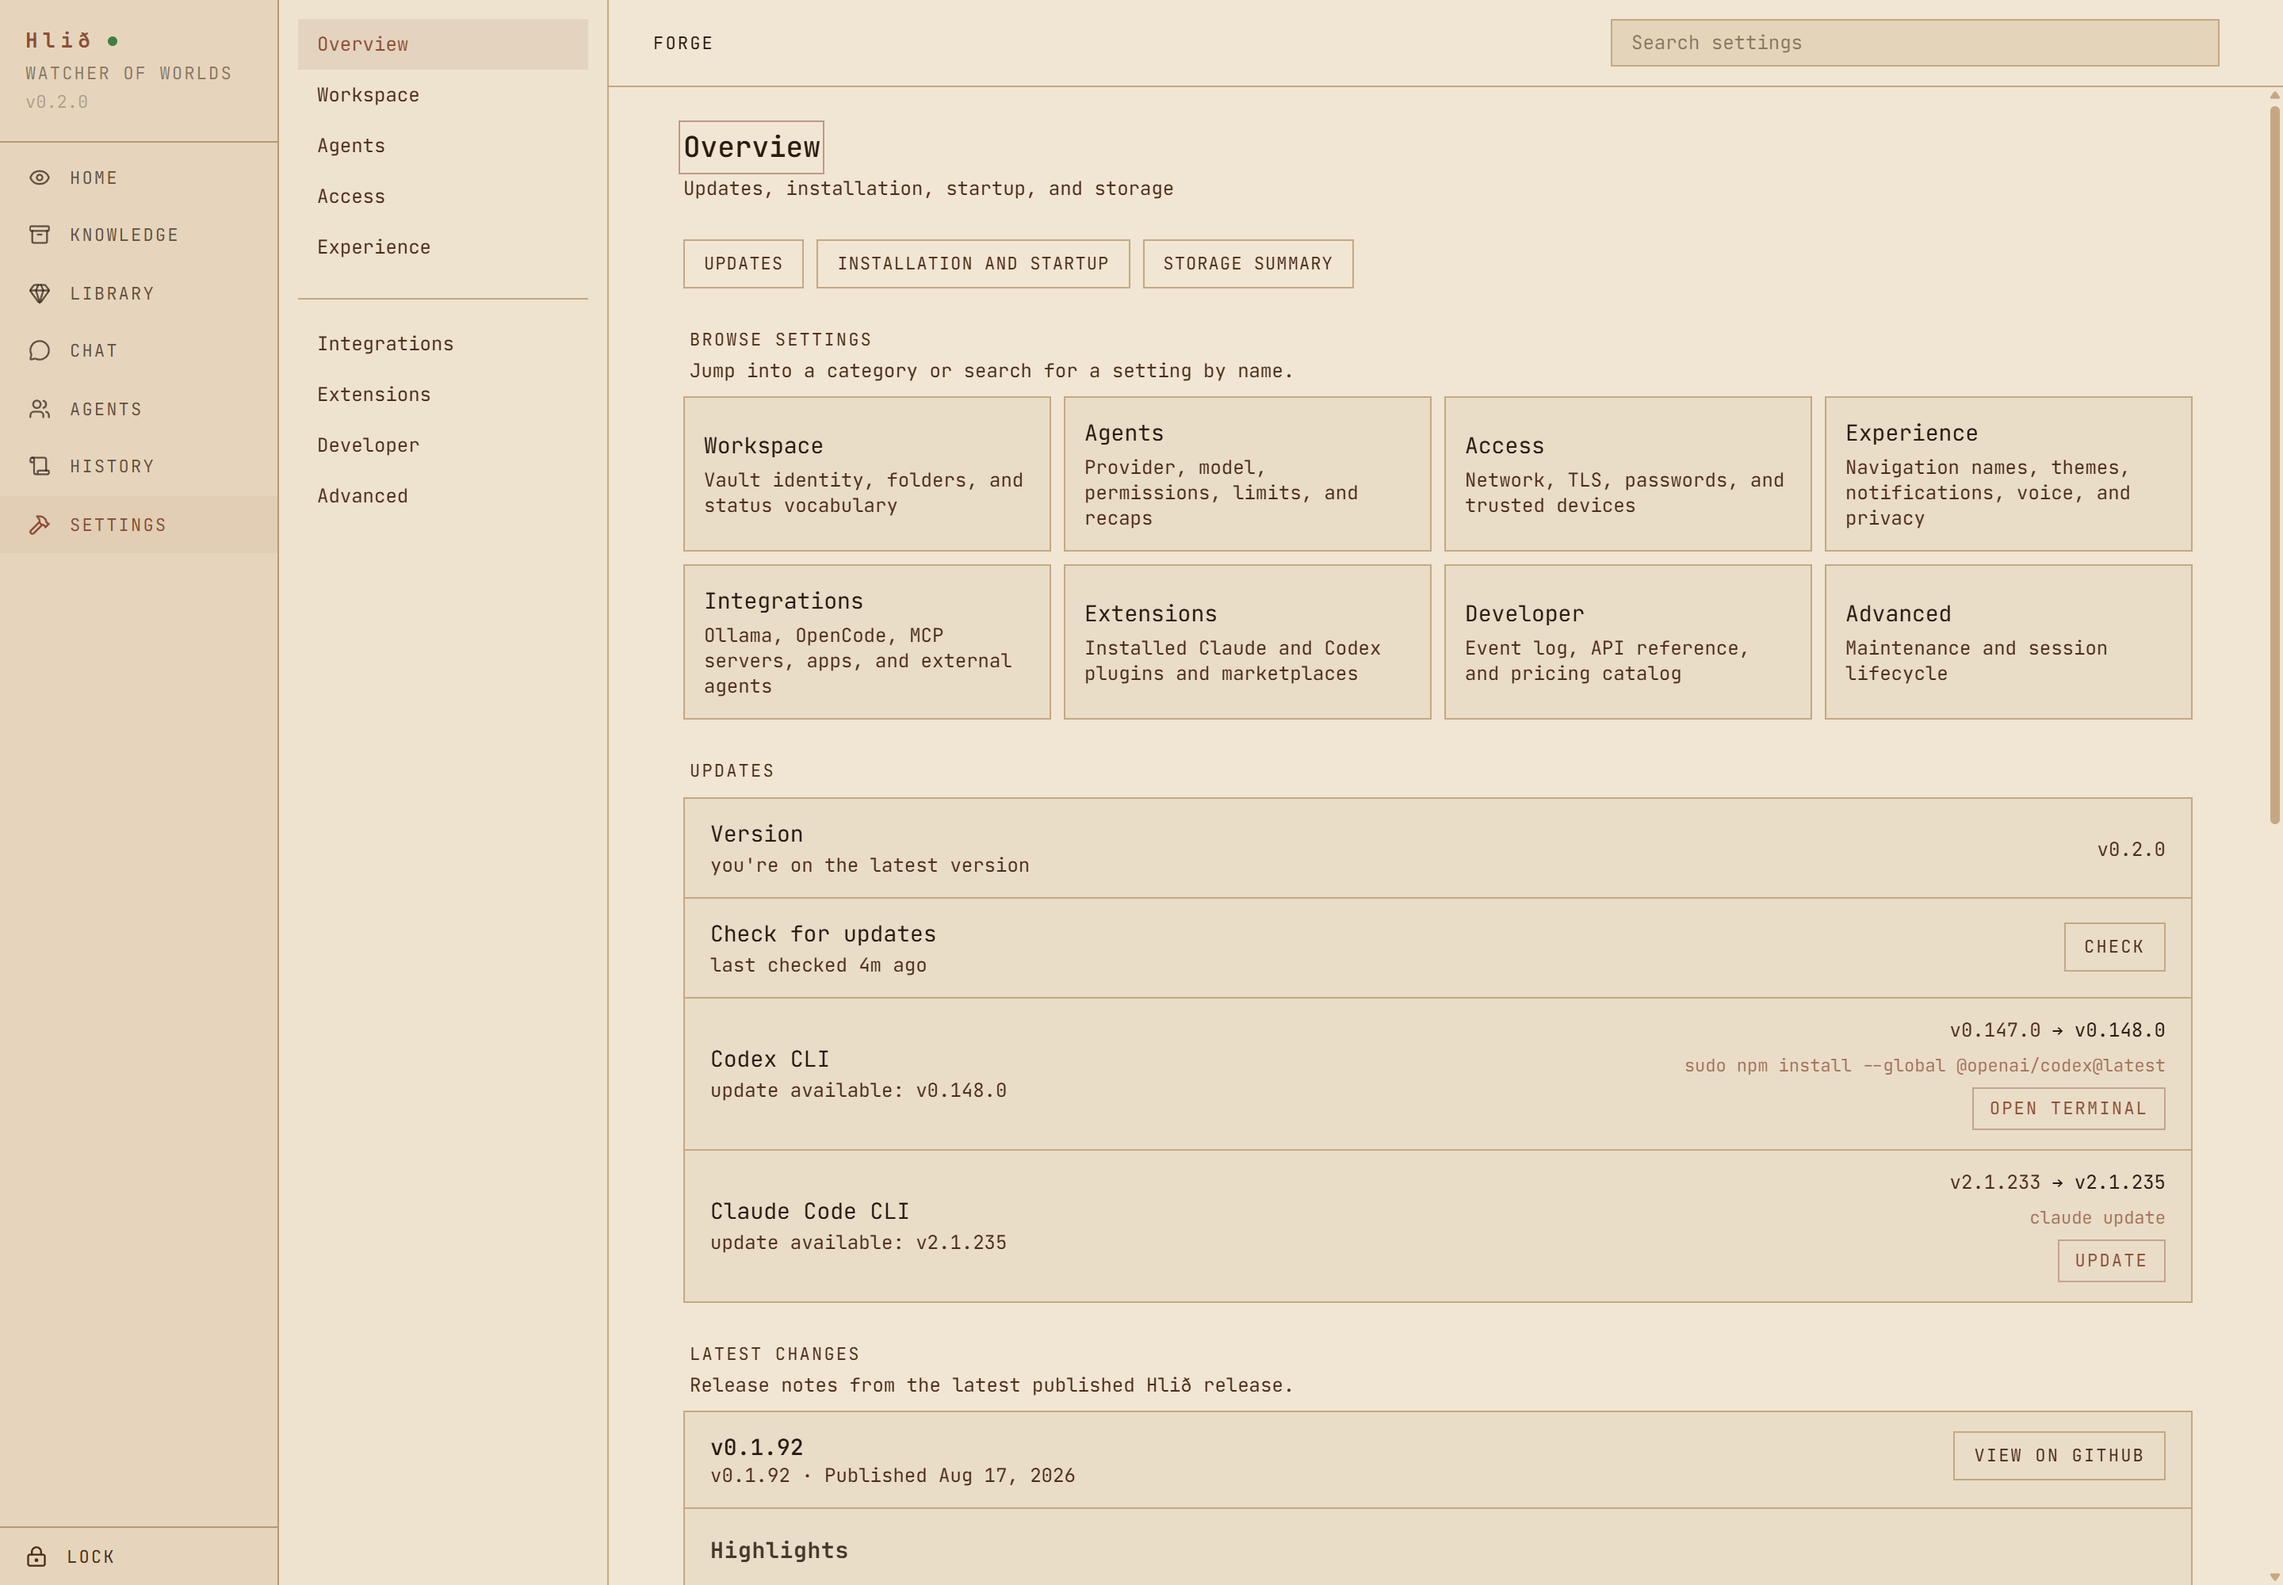
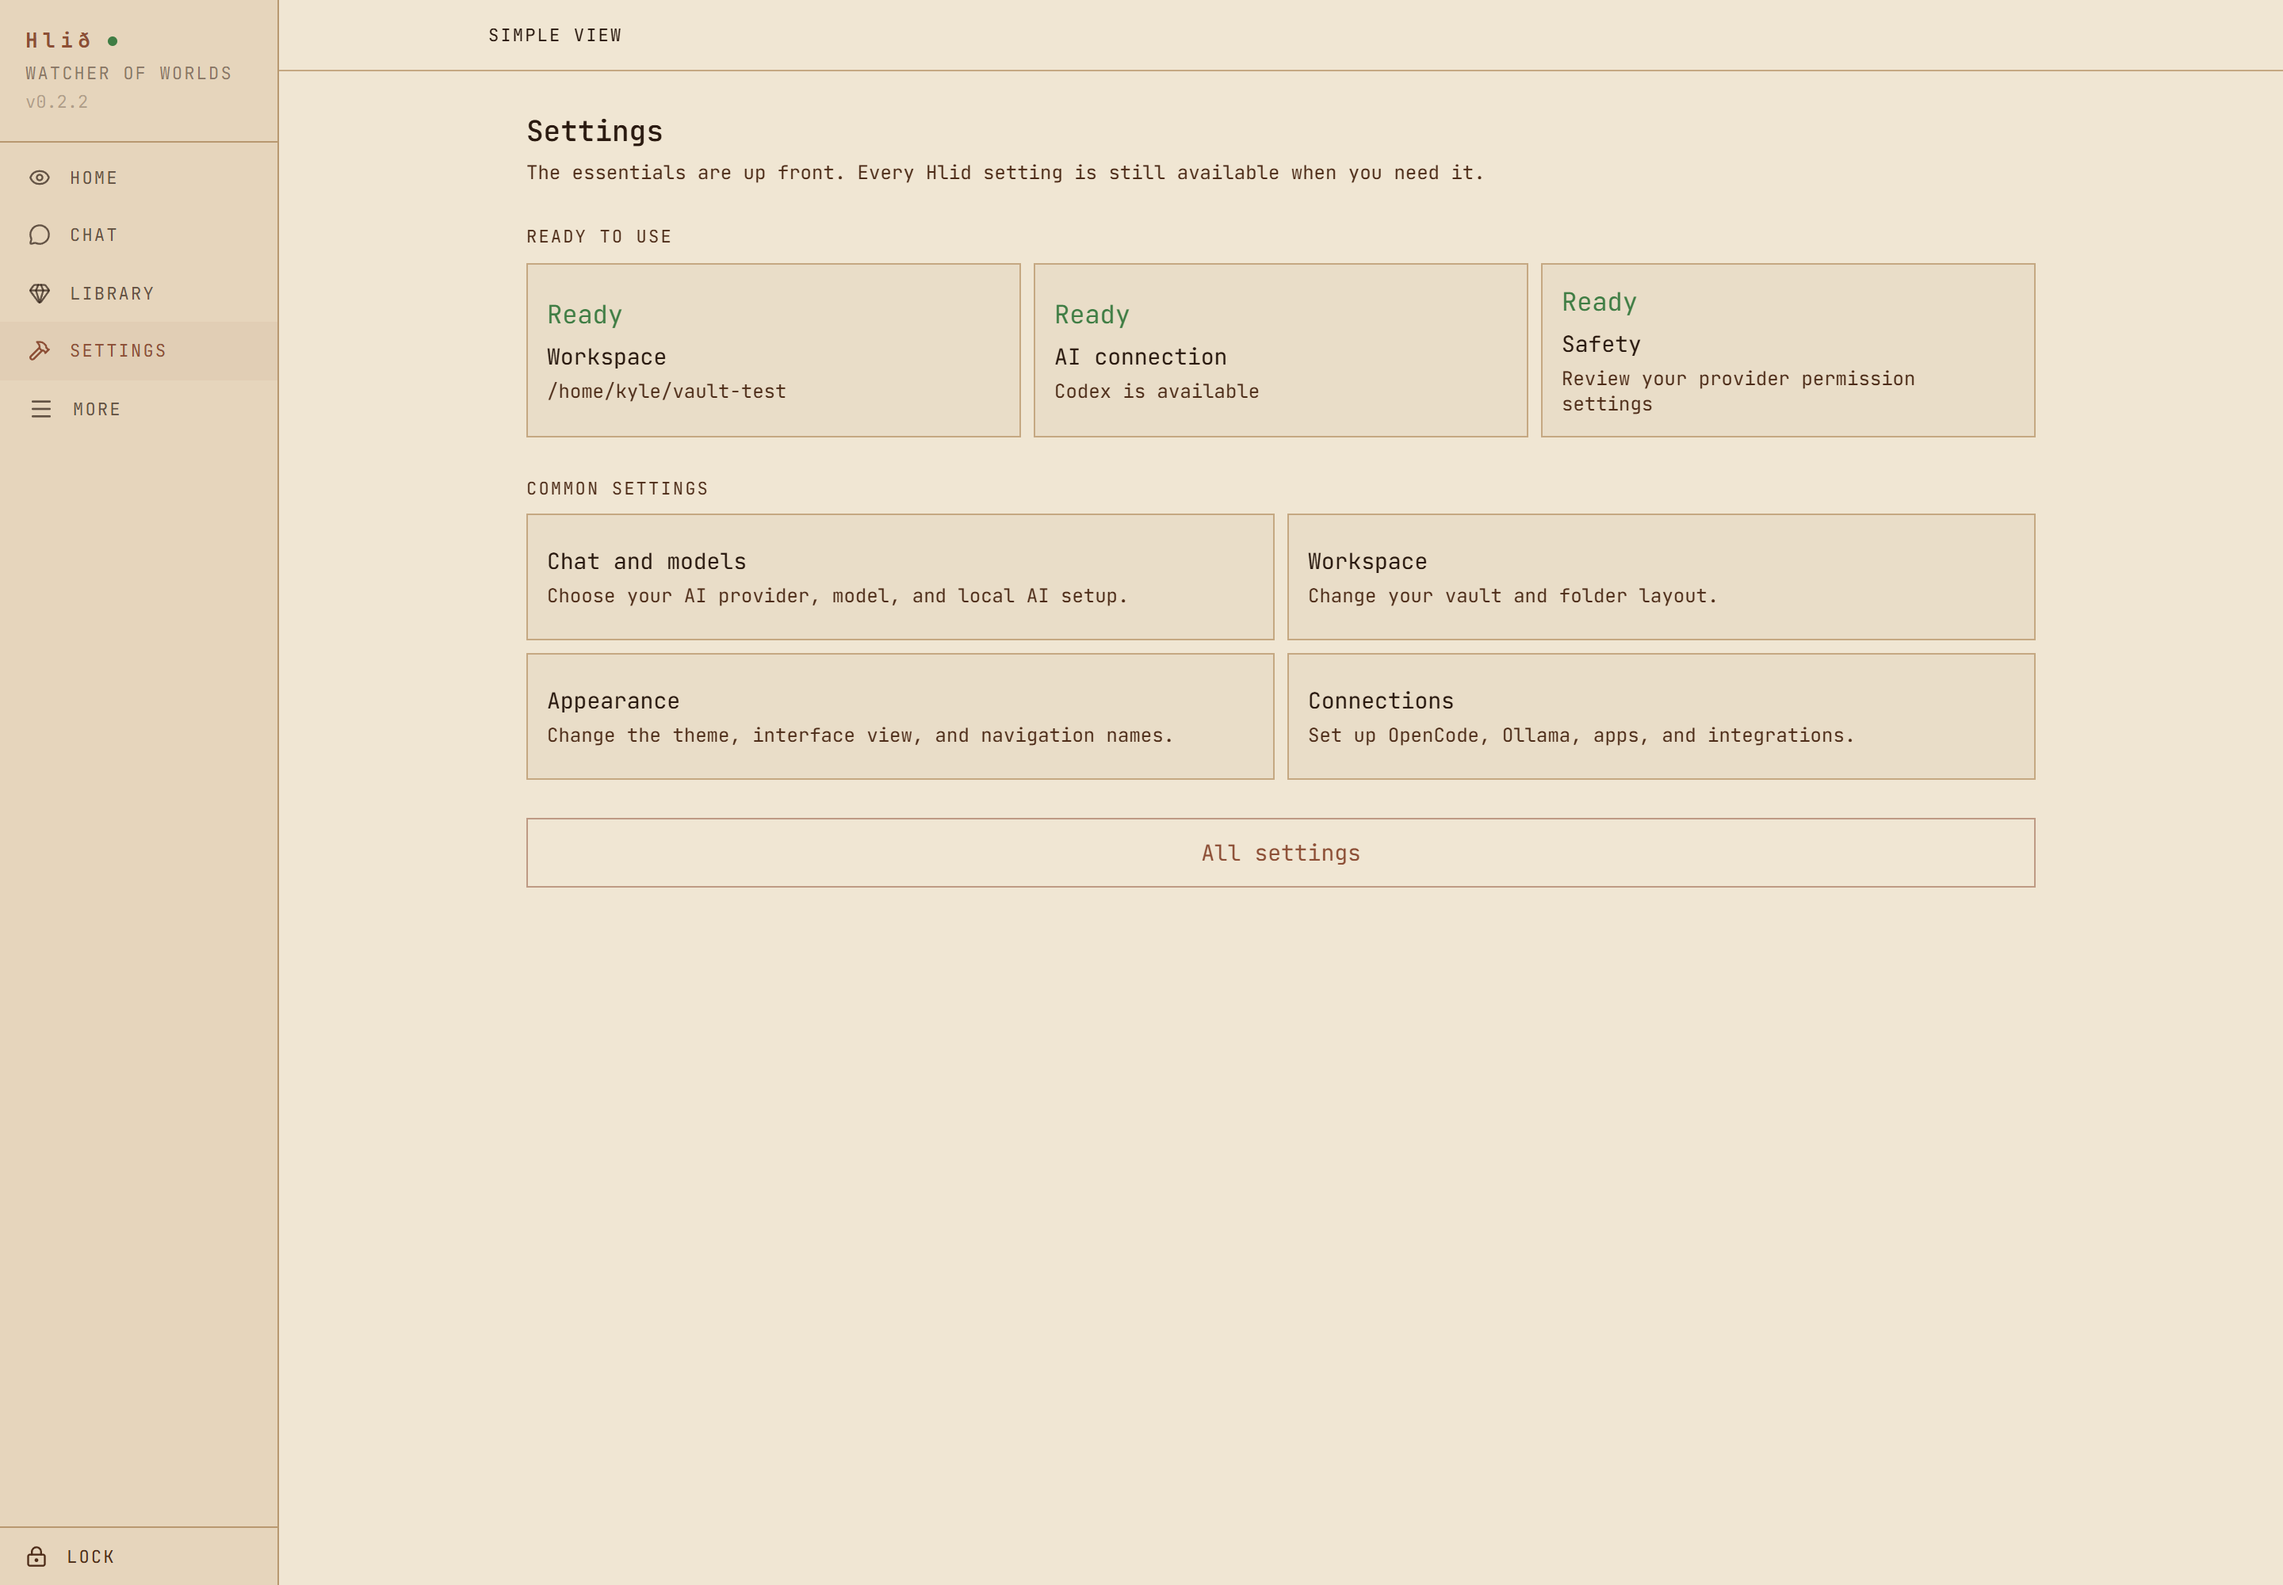
docs: prepare v0.2.2 release
## Hlid 0.2.2

Simple view keeps Home, Chat, Library, and Settings up front while the full Hlid toolset stays one click away.

- Add Guided and Custom first-start paths, including a safe starter workspace option.
- Add Simple and Full navigation with a compact More menu.
- Give Simple Forge a readiness page and shortcuts for common setup.
- Add a reviewed local AI setup checklist without bypassing existing confirmations.
- Refresh the README, user guide, and Forge screenshot for the new experience.

diff --git a/docs/user-guide.md b/docs/user-guide.md
@@ -34,24 +34,28 @@ devices can sign in over the `HTTPS` endpoint. A browser stays trusted for 30
 days unless you lock `Hlið`, change the password, or revoke every device in
 `Forge`.
 
-![First-run Structure step with detected vault folders](images/first-run-vault-setup.png)
+![First-run Custom setup structure step](images/first-run-vault-setup.png)
 
-*Pick the local `Obsidian` vault, then make sure the detected structure actually matches it.*
+*Custom setup keeps the full vault structure editor when you want every choice.*
 
 ## Connect a vault
 
-The first-run wizard is five small steps:
+The first screen gives you two paths:
 
-1. **Welcome** introduces the setup.
-2. **Vault** picks an existing local `Obsidian` vault. Hidden folders stay out
-   of the folder picker.
-3. **Structure** detects a `PARA` or wiki-style layout and fills in the folders
-   it recognizes. Check the vault name, folder mappings, available default
-   provider, that provider's permission mode, and the theme. Empty optional
-   mappings are fine.
-4. **Primer** explains the page names and how `Hlið`, the vault, and its skills
-   fit together.
-5. **Done** opens the app.
+- **Guided setup** keeps the everyday choices up front and starts the app in
+  Simple view. Create a new **Hlid Starter** workspace or connect an existing
+  local `Obsidian` vault, choose whether you are using local AI, an existing
+  account, or setting that up later, then pick a plain-language safety level.
+  The final screen can take you straight into `Raven` for a test chat.
+- **Custom setup** keeps the full structure editor. It detects a `PARA` or
+  wiki-style layout and fills in the folders it recognizes, then lets you check
+  the vault name, mappings, default provider, provider-native permission mode,
+  and theme. It starts in Full view.
+
+The starter path creates a new `Hlid Starter` folder under the parent you pick.
+It adds empty `PARA` folders, `_munin` skill and memory folders, and one welcome
+note. Existing folders and files are never replaced. If setup stops halfway
+through, `Hlið` can resume only a starter folder carrying its own marker.
 
 The wizard writes `hlid.config.toml` beside the installed executable. You can
 change the same settings later under **FORGE → Workspace**. If the vault gets
@@ -231,17 +235,17 @@ Uploads can stay temporary for one session or become managed vault attachments.
 
 ## The pages
 
-The main navigation defaults to **Home**, **Knowledge**, **Library**, **Chat**,
-**Agents**, **History**, and **Settings**. Hlið's canonical page names remain
-**Watch**, **Vault**, **Relics**, **Raven**, **Einherjar**, **Ledger**, and
-**Forge**. I'll start with the two places that launch and supervise work, then
-get into the browsers and settings around them.
+Simple view keeps **Home**, **Chat**, **Library**, and **Settings** visible, with
+**More** holding Knowledge, Agents, and History. Full view puts all seven
+destinations in the navigation. Hlið's canonical page names remain **Watch**,
+**Vault**, **Relics**, **Raven**, **Einherjar**, **Ledger**, and **Forge**. No
+route or tool disappears in Simple view, it is just less stuff staring at you.
 
-**Settings → Experience → Navigation names** can switch the menu to Hlið's
-canonical names or set a custom name for any menu item. This changes only the
-visible desktop and mobile navigation labels. Routes, icons, page headings, and
-Hlið's underlying terminology do not change, and an aliased link keeps its Hlið
-name in its tooltip and accessible label.
+**Settings → Experience → UI** switches between Simple and Full view.
+**Navigation names** can use Hlið's canonical names or set a custom name for any
+menu item. These are presentation choices only. Routes, icons, page headings,
+provider permissions, and Hlið's underlying terminology do not change, and an
+aliased link keeps its Hlið name in its tooltip and accessible label.
 
 ### Watch
 
@@ -650,11 +654,17 @@ not configured for that entry stay hidden.
 
 ### Forge
 
-![Forge overview and category navigation](images/forge-overview.png)
+![Forge Simple view readiness and common settings](images/forge-overview.png)
 
-*`Forge` groups settings by what you are trying to change, not by whichever config object owns it.*
+*Simple view puts readiness and the common stuff first. The full category browser is one click away.*
 
-**FORGE** keeps the settings in these categories:
+In Simple view, **Forge** opens with workspace, AI connection, and safety
+readiness, followed by shortcuts for chat and models, workspace, appearance,
+and connections. **All settings** opens the existing category browser. A direct
+link to an advanced category still goes straight there, because Simple view
+does not gate routes.
+
+Full view, or **All settings**, keeps the settings in these categories:
 
 - **Overview** shows `Hlið` and provider `CLI` updates, installation and startup
   state, storage use, and the latest published release notes. The global update
@@ -682,7 +692,11 @@ not configured for that entry stay hidden.
 	voice, and browser-local privacy mode. `Hlið` and vault entries always remain
 	visible; the toggle controls every provider-badged skill, command, or plugin.
 - **Integrations** manages provider Apps and connectors, `CLIProxyAPI`, `MCP`,
-  `Umbod`, the `ACP` catalog, and local `Ollama`.
+  `Umbod`, the `ACP` catalog, and local `Ollama`. Its guided local AI checklist
+  remembers only setup intent and reviewed steps, then rechecks live OpenCode,
+  Ollama, model, and `WSL` relay state whenever you return. It sends every
+  install, download, firewall, and model action through the existing confirmed
+  controls instead of doing any of that behind your back.
 - **Extensions** manages installed `Claude` and `Codex` plugins and their
   marketplaces.
 - **Developer** switches between the event log, local `API` reference, and pricing
@@ -711,7 +725,7 @@ re-add `Hlið`'s agent and `Obsidian` vault servers to the standalone
 `Claude Desktop` config. **Remove** clears only the entries managed by `Hlið`.
 Restart `Claude Desktop` after either action so it loads the new config.
 
-The search box filters whole setting categories. Vault `MCP` config stays scoped
+The search box jumps to exact setting destinations. Vault `MCP` config stays scoped
 to the vault, and each `Einherjar` entry keeps its own `MCP` config on that agent's
 page. `Hlið` combines those compatibility files with provider-native and live
 runtime discovery into one scoped inventory. It does not dump servers from

diff --git a/README.md b/README.md
@@ -119,8 +119,10 @@ set up, `Hlið` is happy.
    Menu shortcut, starts the local service, and opens the app in a browser.
 4. Create the app password on the machine running `Hlið`. It needs 12 to 256
    characters, with no uppercase, number, or symbol ceremony.
-5. Pick the `Obsidian` vault, check the detected folders, choose the default
-   provider and permissions, then pick a theme.
+5. Choose **Guided setup** for the short path or **Custom setup** for the full
+   set of choices. Guided setup can create a fresh starter workspace or connect
+   an existing `Obsidian` vault, then walks through the AI connection and
+   permission level before opening a test chat.
 
 The default address is `http://127.0.0.1:3000`. It stays on the local machine
 until network access is turned on. The [user guide](docs/user-guide.md) covers
@@ -145,7 +147,8 @@ the vault directly when the `CLI` is not around.
 - **FORGE** is where all the setup lives: providers, permissions, networking,
   voice, provider extensions, provider `Apps` and connectors, `Obsidian CLI`,
   `CLIProxyAPI`, `MCP`, `ACP`, `Umbod`, updates, storage maintenance, and
-  lifecycle controls.
+  lifecycle controls. Simple view starts with readiness and the common settings.
+  **All settings** brings the full category browser back whenever you need it.
 
 The [user guide](docs/user-guide.md) gets into the meat and potatoes of each
 page and the workflows that connect them.
@@ -162,10 +165,12 @@ page and the workflows that connect them.
 | **HISTORY** / **LEDGER** (`/ledger`) | Live-session controls, pinned and archived sessions, parent/child provenance, provider-history import, and analytics for tokens, cost, cache behavior, tools, stop reasons, context, and provider limits. |
 | **SETTINGS** / **FORGE** (`/forge`) | Settings, provider extensions, integrations, access, updates, maintenance, and developer tools. |
 
-The plain-language menu names are selected by default. **SETTINGS → Experience
-→ Navigation names** can switch the menu to Hlið's canonical names or set each
-name individually. It only changes the desktop and mobile menu labels: the Hlið
-wordmark, routes, icons, page names, and underlying concepts stay the same.
+Simple view keeps **Home**, **Chat**, **Library**, and **Settings** up front, with
+**More** holding Knowledge, Agents, and History. Full view shows all seven
+destinations at once. **SETTINGS → Experience → UI** switches between them, and
+**Navigation names** can use Hlið's canonical names or set each label
+individually. Neither choice changes routes, provider behavior, or what the app
+can do.
 
 ## Configuration and data
 
@@ -173,8 +178,8 @@ The packaged app keeps its executable, config, database, downloaded voice
 models, and runtime data together under `%LOCALAPPDATA%\Hlid`.
 
 `hlid.config.toml` holds the vault layout, providers, server and `TLS` ports,
-network access, attachments, diagnostics, voice, `UI` preferences, navigation
-names, and registered agents.
+network access, attachments, diagnostics, voice, `UI` preferences, Simple or
+Full view, navigation names, and registered agents.
 Most of it can be changed in `Forge`. A setting with a restart marker does not
 kick in until `Hlið` restarts. Server, `ACP`, and `Umbod` changes are the main
 ones that need it.
